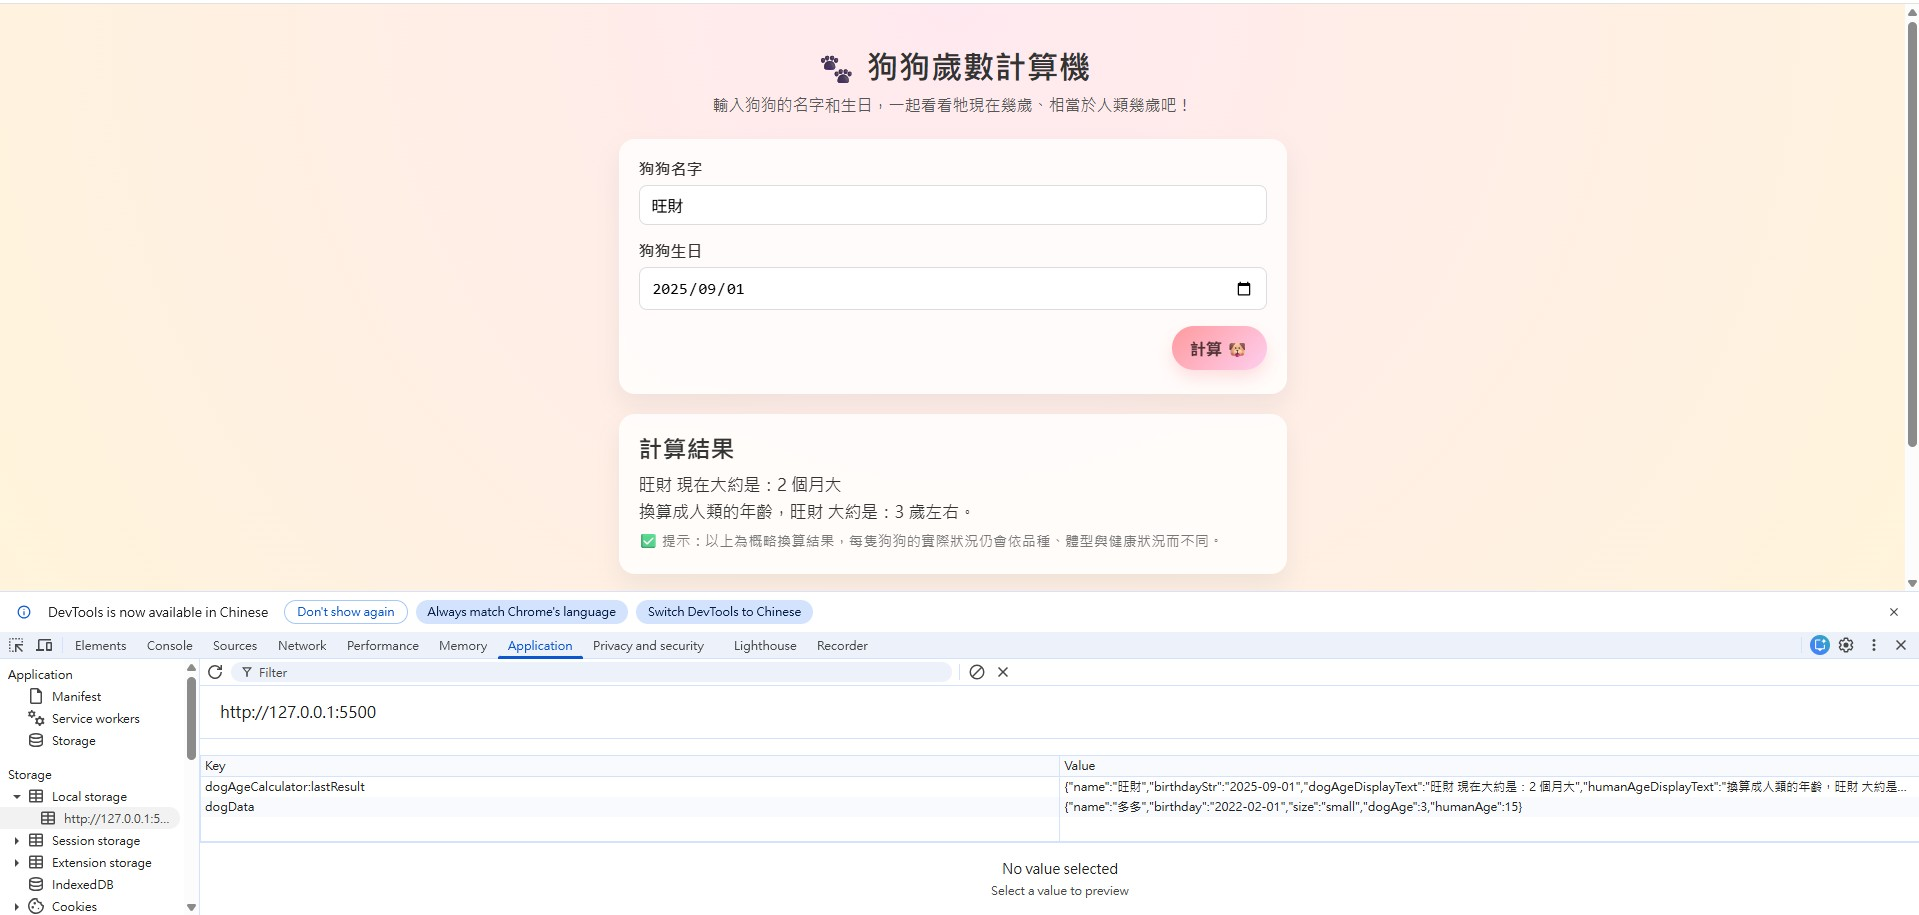
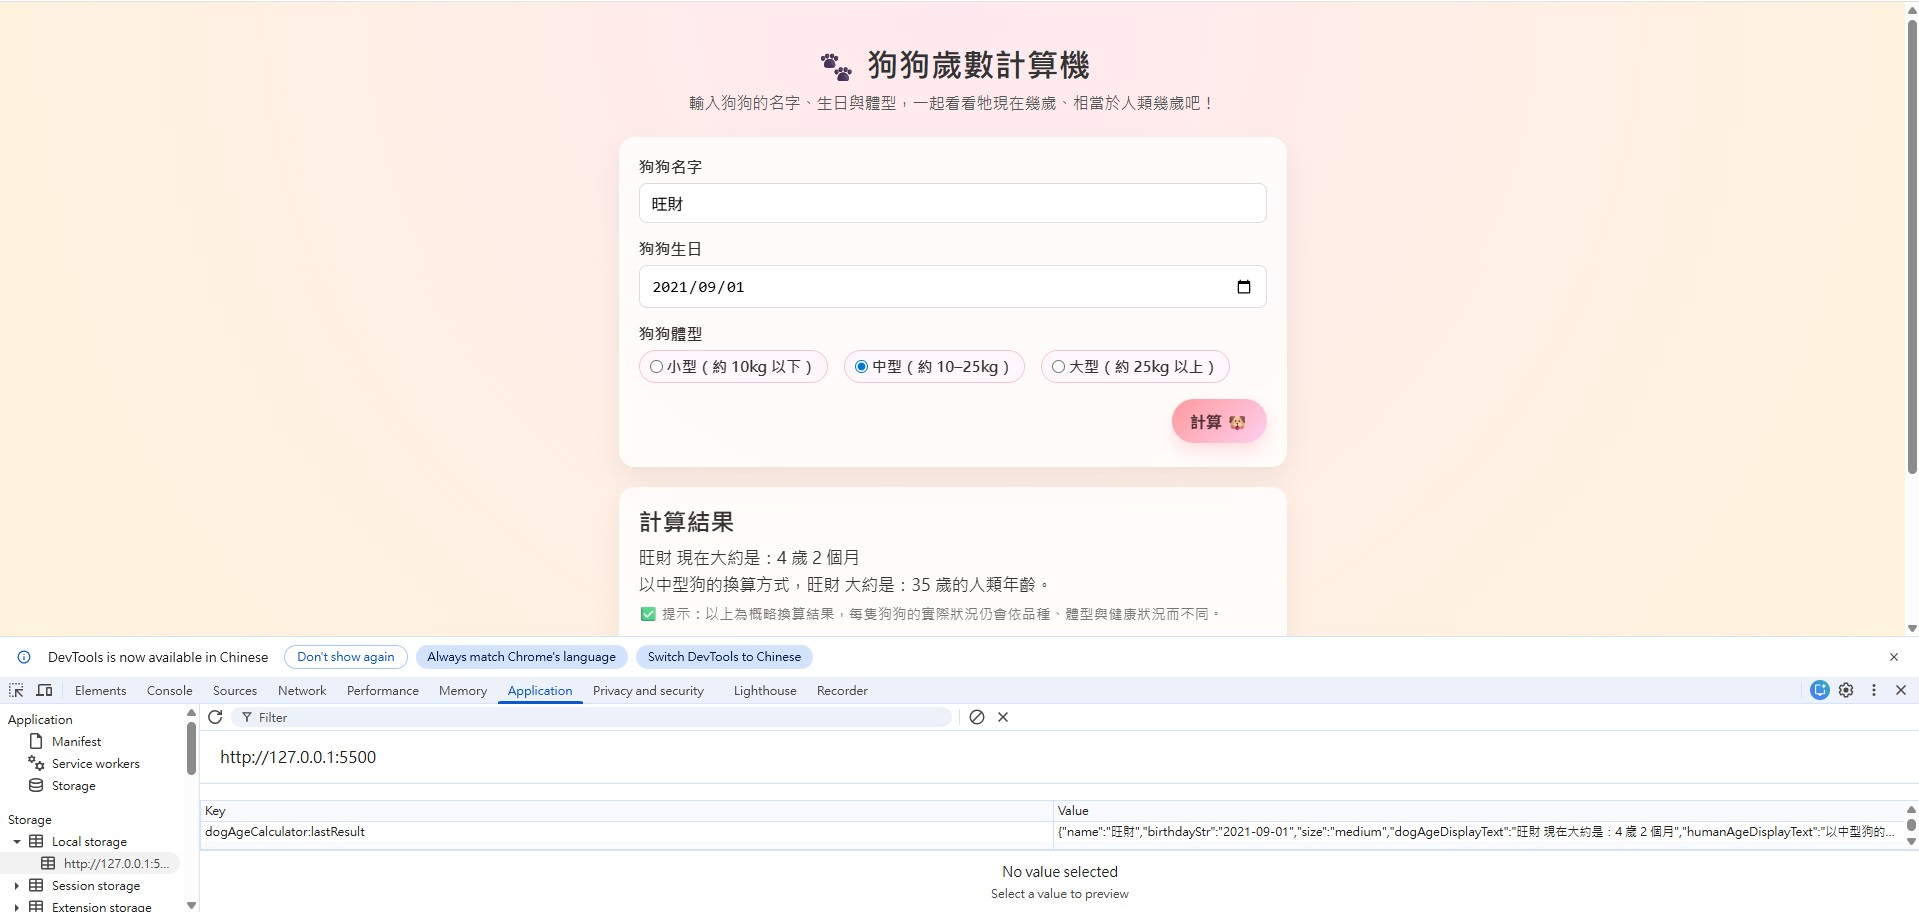
新增狗狗體型選擇功能，更新相關計算邏輯與樣式

diff --git a/script.js b/script.js
@@ -1,13 +1,13 @@
 // === 狗狗歲數計算機主程式 ===
 
-// localStorage 的 key，清楚說明用途：用來記錄上一次輸入與計算結果
+// localStorage 的 key，清楚說明用途：用來記錄上一次輸入與計算結果（含體型）
 const STORAGE_KEY = "dogAgeCalculator:lastResult";
 
-// 等待整個網頁載入完成後再執行
 document.addEventListener("DOMContentLoaded", () => {
   const dogForm = document.getElementById("dog-form");
   const dogNameInput = document.getElementById("dogName");
   const dogBirthdayInput = document.getElementById("dogBirthday");
+  const sizeInputs = document.querySelectorAll('input[name="dogSize"]');
 
   const resultSection = document.getElementById("resultSection");
   const dogAgeText = document.getElementById("dogAgeText");
@@ -25,6 +25,7 @@ document.addEventListener("DOMContentLoaded", () => {
 
     const name = dogNameInput.value.trim();
     const birthdayStr = dogBirthdayInput.value; // yyyy-mm-dd 字串
+    const size = getSelectedSize();
 
     if (!name) {
       alert("請先輸入狗狗名字喔！");
@@ -48,12 +49,12 @@ document.addEventListener("DOMContentLoaded", () => {
     // 計算狗狗實際年齡（年＋月＋總年數）
     const ageInfo = calcDogAge(birthdayDate, today);
 
-    // 依照狗狗實際年齡（以年為單位）換算成人類年齡
-    const humanAge = convertDogAgeToHuman(ageInfo.totalYears);
+    // 依照狗狗實際年齡（以年為單位）＋ 體型，換算成人類年齡
+    const humanAge = convertDogAgeToHuman(ageInfo.totalYears, size);
 
     // 把結果組合成要顯示的文字
     const dogAgeDisplayText = buildDogAgeDisplayText(name, ageInfo);
-    const humanAgeDisplayText = buildHumanAgeDisplayText(name, humanAge);
+    const humanAgeDisplayText = buildHumanAgeDisplayText(name, humanAge, size);
 
     // 顯示在畫面上
     dogAgeText.textContent = dogAgeDisplayText;
@@ -64,6 +65,7 @@ document.addEventListener("DOMContentLoaded", () => {
     saveLastResult({
       name,
       birthdayStr,
+      size,
       dogAgeDisplayText,
       humanAgeDisplayText,
     });
@@ -76,7 +78,6 @@ document.addEventListener("DOMContentLoaded", () => {
    */
   function setTodayAsMaxDate(inputEl) {
     const today = getTodayWithoutTime();
-    // 將日期格式化成 yyyy-mm-dd 給 input 使用
     const yyyy = today.getFullYear();
     const mm = String(today.getMonth() + 1).padStart(2, "0");
     const dd = String(today.getDate()).padStart(2, "0");
@@ -96,7 +97,6 @@ document.addEventListener("DOMContentLoaded", () => {
    * - 傳回 { years: 幾歲, months: 幾個月(0-11), totalYears: 以年為單位的浮點數 }
    */
   function calcDogAge(birthday, today) {
-    // 以「天數」來計算差距，再換算成年
     const diffMs = today - birthday; // 毫秒差
     const diffDays = diffMs / (1000 * 60 * 60 * 24);
 
@@ -113,15 +113,32 @@ document.addEventListener("DOMContentLoaded", () => {
   }
 
   /**
-   * 狗狗歲數換算人類歲數（常見的經驗公式）：
-   * - 第 1 年：約 15 人類歲
-   * - 第 2 年：再加 9 人類歲（合計 24）
-   * - 之後每增加 1 狗年：再加約 4 人類歲
-   *
-   * 這裡使用「狗狗實際年齡（浮點數）」進行插值換算：
-   * 例：0.5 歲 ≈ 0.5 * 15
+   * 取得目前選擇的狗狗體型（small / medium / large）
+   * 若沒有選到就預設回傳 "medium"
    */
-  function convertDogAgeToHuman(dogYears) {
+  function getSelectedSize() {
+    for (const input of sizeInputs) {
+      if (input.checked) {
+        return input.value;
+      }
+    }
+    return "medium";
+  }
+
+  /**
+   * 狗狗歲數換算人類歲數（體型微調版）：
+   * 共用基本觀念：
+   *  - 第 1 年 ≈ 15 人類歲
+   *  - 第 2 年再加 9 人類歲（共 24）
+   *
+   * 不同體型在「2 歲之後」的換算略有不同（簡化假設）：
+   *  - 小型犬：每增加 1 狗年 ≈ +4 人類歲
+   *  - 中型犬：每增加 1 狗年 ≈ +5 人類歲
+   *  - 大型犬：每增加 1 狗年 ≈ +6 人類歲
+   *
+   * ※ 這只是常見說法的簡化版，實際年齡仍會因品種與健康狀況不同。
+   */
+  function convertDogAgeToHuman(dogYears, size) {
     if (dogYears <= 0) return 0;
 
     let humanYears;
@@ -129,11 +146,22 @@ document.addEventListener("DOMContentLoaded", () => {
     if (dogYears <= 1) {
       humanYears = dogYears * 15;
     } else if (dogYears <= 2) {
-      // 第 1 年先給 15 歲，第二年這段部分按比例乘以 9
       humanYears = 15 + (dogYears - 1) * 9;
     } else {
-      // 前 2 年是 24 歲，之後每年加 4 歲
-      humanYears = 24 + (dogYears - 2) * 4;
+      let ratePerYear;
+      switch (size) {
+        case "small":
+          ratePerYear = 4;
+          break;
+        case "large":
+          ratePerYear = 6;
+          break;
+        case "medium":
+        default:
+          ratePerYear = 5;
+          break;
+      }
+      humanYears = 24 + (dogYears - 2) * ratePerYear;
     }
 
     return humanYears;
@@ -151,7 +179,6 @@ document.addEventListener("DOMContentLoaded", () => {
     } else if (years <= 0) {
       ageText = `${months} 個月大`;
     } else {
-      // 有年數，視情況加上月數
       if (months > 0) {
         ageText = `${years} 歲 ${months} 個月`;
       } else {
@@ -163,18 +190,32 @@ document.addEventListener("DOMContentLoaded", () => {
   }
 
   /**
-   * 組合人類年齡的文字描述（四捨五入到整數）
+   * 組合人類年齡的文字描述（四捨五入到整數），並帶上體型說明
    */
-  function buildHumanAgeDisplayText(name, humanYears) {
+  function buildHumanAgeDisplayText(name, humanYears, size) {
     const rounded = Math.round(humanYears);
-    return `換算成人類的年齡，${name} 大約是：${rounded} 歲左右。`;
+
+    let sizeLabel;
+    switch (size) {
+      case "small":
+        sizeLabel = "小型狗";
+        break;
+      case "large":
+        sizeLabel = "大型狗";
+        break;
+      case "medium":
+      default:
+        sizeLabel = "中型狗";
+        break;
+    }
+
+    return `以${sizeLabel}的換算方式，${name} 大約是：${rounded} 歲的人類年齡。`;
   }
 
   /**
    * 將結果存入 localStorage
    */
   function saveLastResult(data) {
-    // 多存一個時間戳也可以，之後要做紀錄列表也方便擴充
     const payload = {
       ...data,
       savedAt: new Date().toISOString(),
@@ -191,11 +232,24 @@ document.addEventListener("DOMContentLoaded", () => {
 
     try {
       const data = JSON.parse(stored);
-      const { name, birthdayStr, dogAgeDisplayText, humanAgeDisplayText } =
-        data;
+      const {
+        name,
+        birthdayStr,
+        size,
+        dogAgeDisplayText,
+        humanAgeDisplayText,
+      } = data;
 
       if (name) dogNameInput.value = name;
       if (birthdayStr) dogBirthdayInput.value = birthdayStr;
+
+      // 若有儲存體型，幫使用者選回去
+      if (size) {
+        const sizeInput = document.querySelector(
+          `input[name="dogSize"][value="${size}"]`
+        );
+        if (sizeInput) sizeInput.checked = true;
+      }
 
       if (dogAgeDisplayText && humanAgeDisplayText) {
         dogAgeText.textContent = dogAgeDisplayText;

diff --git a/index.html b/index.html
@@ -10,7 +10,7 @@
   <main class="app">
     <h1 class="app-title">🐾 狗狗歲數計算機</h1>
     <p class="app-subtitle">
-      輸入狗狗的名字和生日，一起看看牠現在幾歲、相當於人類幾歲吧！
+      輸入狗狗的名字、生日與體型，一起看看牠現在幾歲、相當於人類幾歲吧！
     </p>
 
     <!-- 狗狗資料輸入表單 -->
@@ -38,6 +38,38 @@
           />
         </div>
 
+        <!-- 狗狗體型選擇 -->
+        <div class="form-group">
+          <span class="form-label">狗狗體型</span>
+          <div class="size-options">
+            <label>
+              <input
+                type="radio"
+                name="dogSize"
+                value="small"
+              />
+              小型（約 10kg 以下）
+            </label>
+            <label>
+              <input
+                type="radio"
+                name="dogSize"
+                value="medium"
+                checked
+              />
+              中型（約 10–25kg）
+            </label>
+            <label>
+              <input
+                type="radio"
+                name="dogSize"
+                value="large"
+              />
+              大型（約 25kg 以上）
+            </label>
+          </div>
+        </div>
+
         <button type="submit" class="btn primary">計算 🐶</button>
       </form>
     </section>
@@ -55,7 +87,7 @@
     <footer class="footer">
       <p>這個小工具是用 <strong>HTML</strong> + <strong>CSS</strong> + <strong>JavaScript</strong> 製作：</p>
       <ul>
-        <li>HTML：負責結構與表單欄位（名字、生日）。</li>
+        <li>HTML：負責結構與表單欄位（名字、生日、體型）。</li>
         <li>CSS：負責顏色、排版、讓畫面看起來可愛一點。</li>
         <li>JavaScript：負責年齡計算、換算人類年齡、存取 <code>localStorage</code>。</li>
       </ul>

diff --git a/style.css b/style.css
@@ -58,10 +58,12 @@ body {
   gap: 6px;
 }
 
-.form-group label {
+.form-group label,
+.form-label {
   font-weight: 600;
 }
 
+/* 輸入框樣式 */
 .form-group input[type="text"],
 .form-group input[type="date"] {
   padding: 10px 12px;
@@ -76,6 +78,24 @@ body {
   outline: none;
   border-color: #ff9a9e;
   box-shadow: 0 0 0 3px rgba(255, 154, 158, 0.25);
+}
+
+/* 體型選擇區 */
+.size-options {
+  display: flex;
+  flex-wrap: wrap;
+  gap: 10px 16px;
+  font-size: 0.95rem;
+}
+
+.size-options label {
+  display: inline-flex;
+  align-items: center;
+  gap: 4px;
+  padding: 6px 10px;
+  border-radius: 999px;
+  background: #fff7fb;
+  border: 1px solid #f9c4d2;
 }
 
 /* 按鈕 */
@@ -148,5 +168,10 @@ body {
 @media (max-width: 480px) {
   .app {
     margin-top: 24px;
+  }
+
+  .size-options {
+    flex-direction: column;
+    align-items: flex-start;
   }
 }
